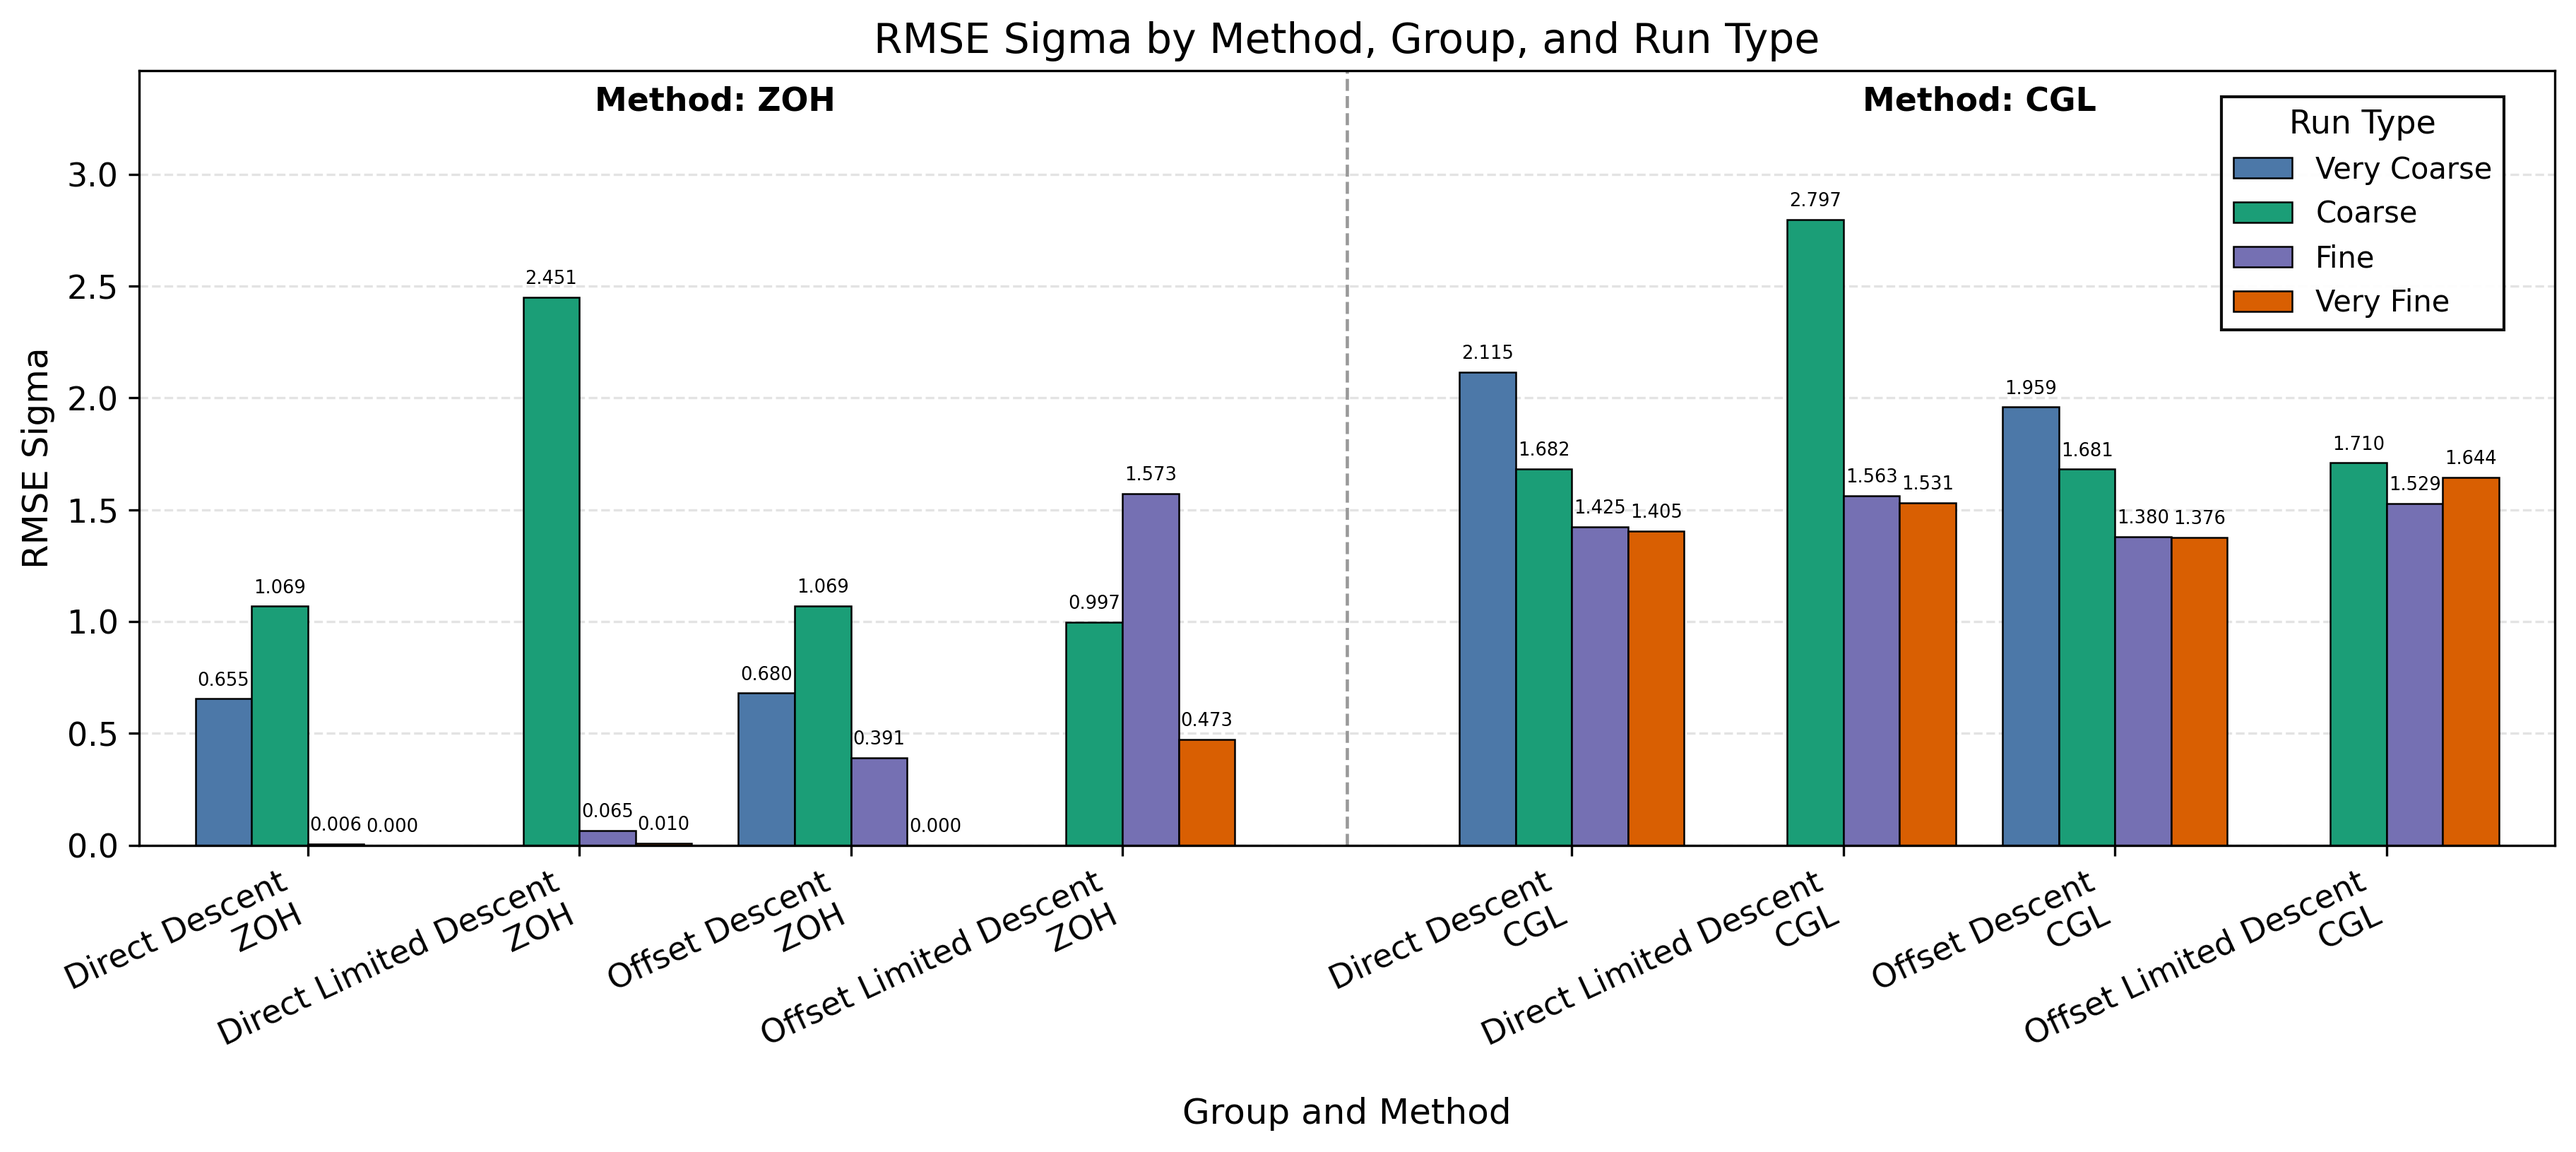
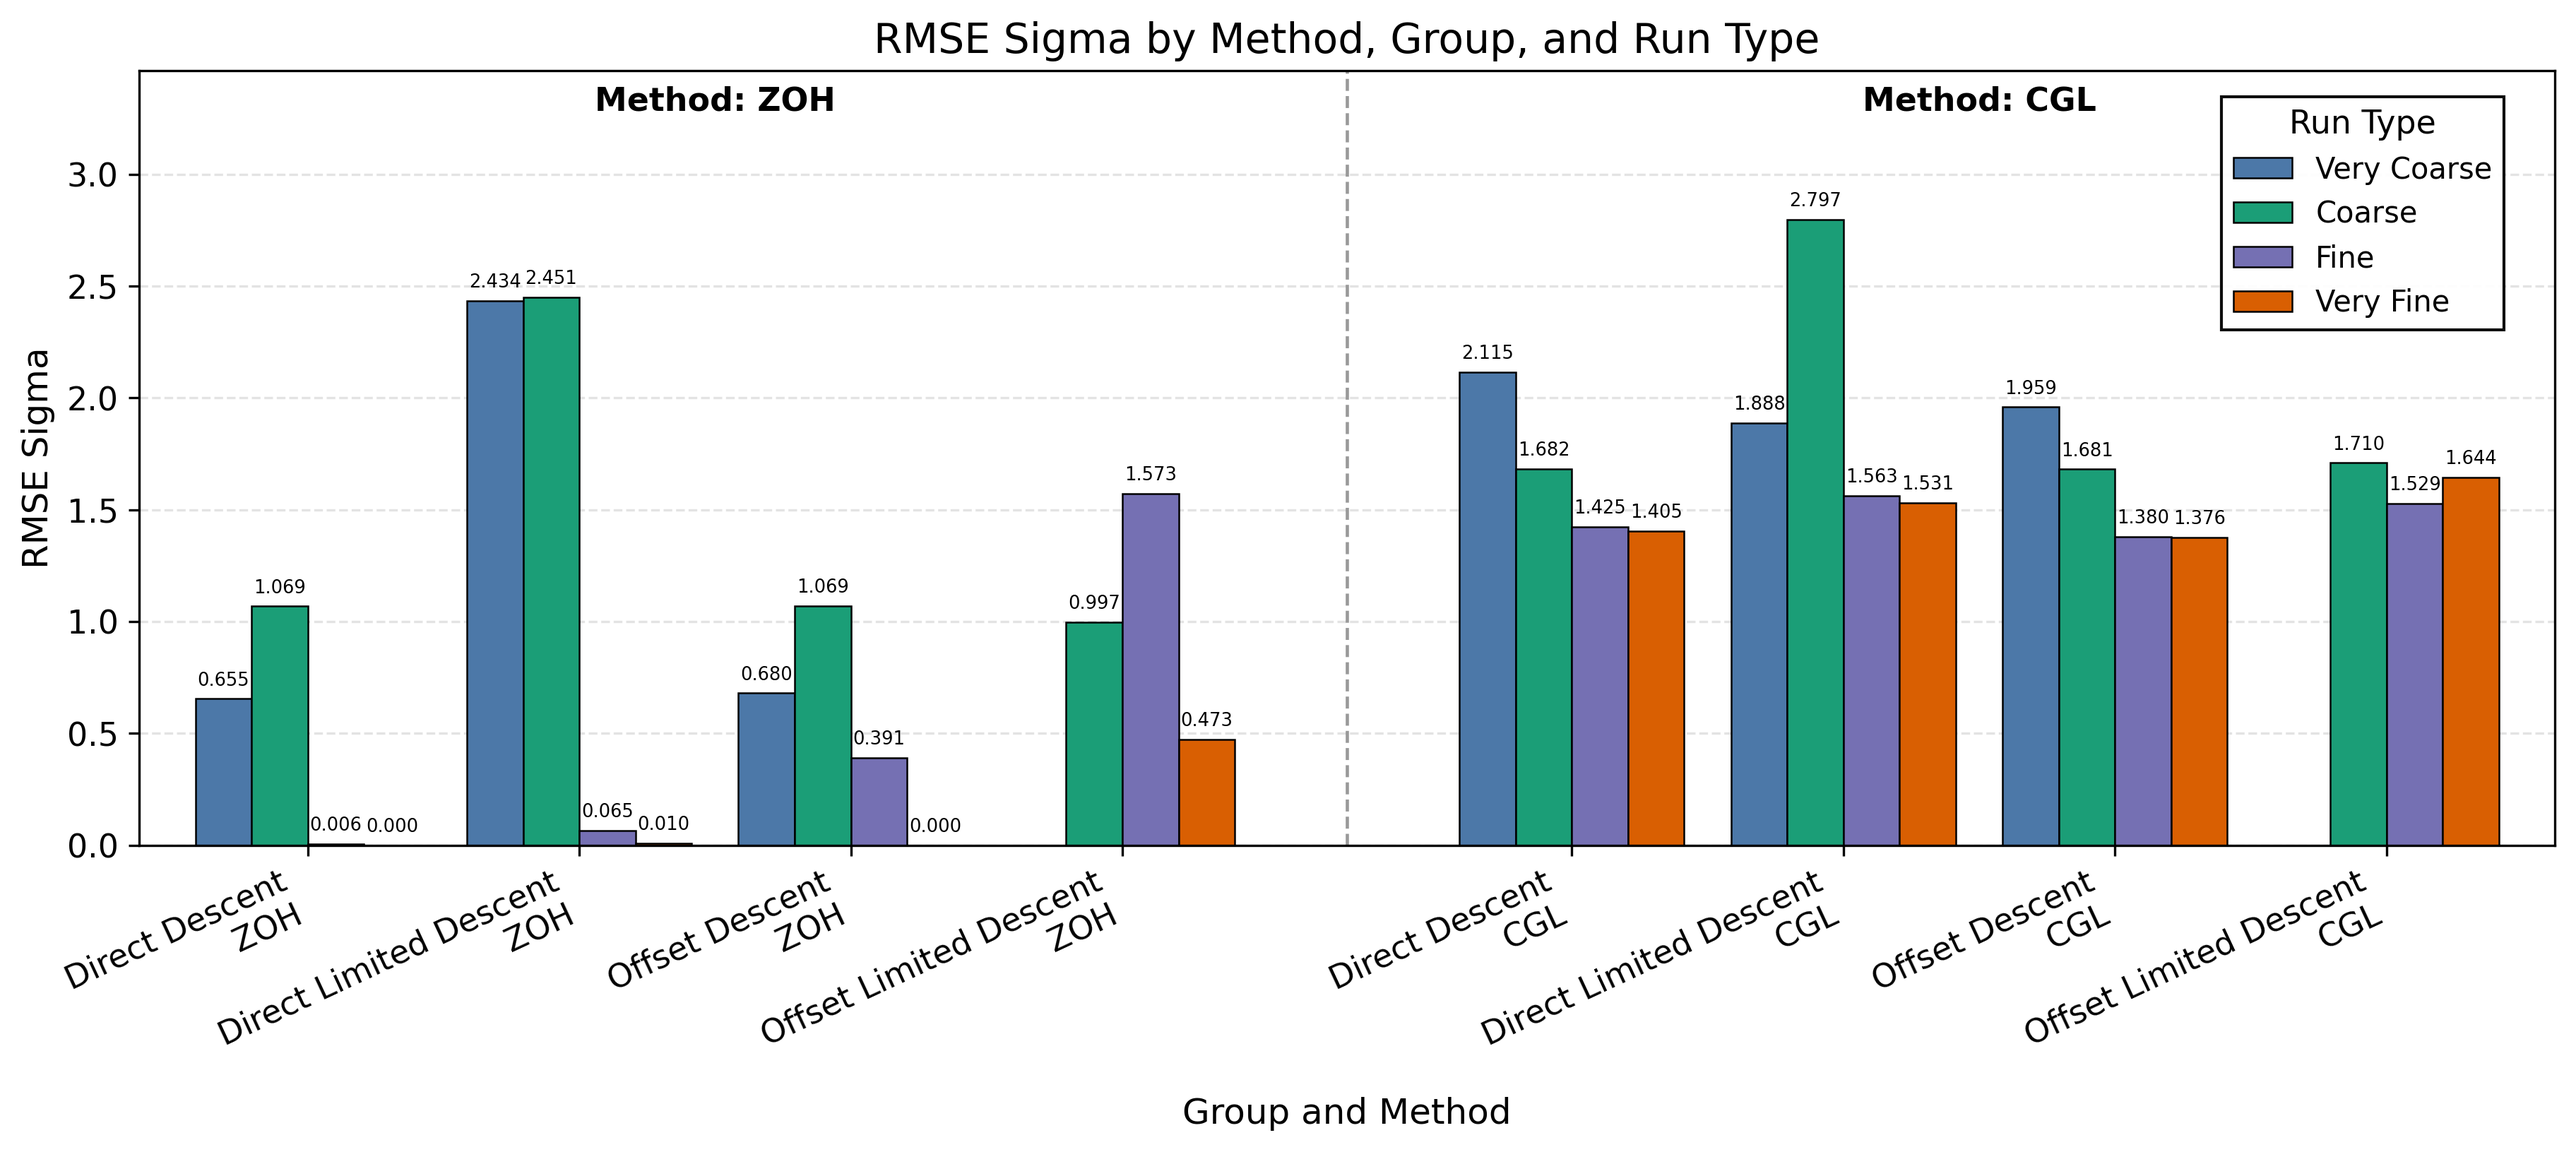
first attempt extreme short descent limited

Changed region(s): [[0.1549, 0.2452, 0.2169, 0.7357], [0.6507, 0.3679, 0.7126, 0.7357]]

diff --git a/Algorithms/LosslessConvexification/rust_lossless/src/main.rs b/Algorithms/LosslessConvexification/rust_lossless/src/main.rs
@@ -30,10 +30,10 @@ fn main() {
      let initial_position = [0.0, 0.0, 50.0];
     // let initial_position = [10.0, 20.0, 50.0];
 
-    let max_velocity = 500.0;
-    // let max_velocity = 5.0;
+    // let max_velocity = 500.0;
+    let max_velocity = 5.0;
 
-    let min_time_s: f64 = 7.00;
+    let min_time_s: f64 = 10.00;
 
     let mut zoh_solver = LosslessSolver {
         landing_point: [0.0, 0.0, 0.0],
@@ -50,7 +50,7 @@ fn main() {
         coarse_line_search_delta_t: 0.1,
         fine_line_search_delta_t: 0.01,
         coarse_delta_t: 0.5,
-        fine_delta_t: 0.4,
+        fine_delta_t: 0.5,
         use_glide_slope: true,
         glide_slope: 5_f64.to_radians(),
         N: 20,
@@ -72,18 +72,18 @@ fn main() {
         coarse_line_search_delta_t: 0.1,
         fine_line_search_delta_t: 0.01,
         coarse_nodes: 15,
-        fine_nodes: 5,
+        fine_nodes: 8,
         use_glide_slope: true,
         glide_slope: 5_f64.to_radians(),
         ..Default::default()
     };
 
-    let group_name = "direct_descent";
-    let truth_name = "trajectory_zoh_truth.csv";
+    let group_name = "direct_limited_descent";
+    let truth_name = "trajectory_zoh_truth_5_vel_limit.csv";
     let run_type = "extreme_short";
-    let solver_groups_to_run: Vec<&str> = vec!["zoh", "cgl"];
+    // let solver_groups_to_run: Vec<&str> = vec!["zoh", "cgl"];
     // let solver_groups_to_run: Vec<&str> = vec!["cgl"];
-    // let solver_groups_to_run: Vec<&str> = vec!["zoh"];
+    let solver_groups_to_run: Vec<&str> = vec!["zoh"];
     let fine_timing_samples_per_group = 10;
     let comparison_nodes = 100;
 

diff --git a/Algorithms/LosslessConvexification/rust_lossless/src/lossless.rs b/Algorithms/LosslessConvexification/rust_lossless/src/lossless.rs
@@ -589,7 +589,7 @@ impl LosslessSolver {
         let fine_n_min = (t_min / self.delta_t).ceil() as i64;
         let fine_n_step = ((self.fine_line_search_delta_t / self.delta_t).round() as i64).max(1);
 
-        let mut k = fine_start - fine_n_step;
+        let mut k = fine_start;
         while k >= fine_n_min {
             println!("Solving step {}...", k);
             self.N = k;
